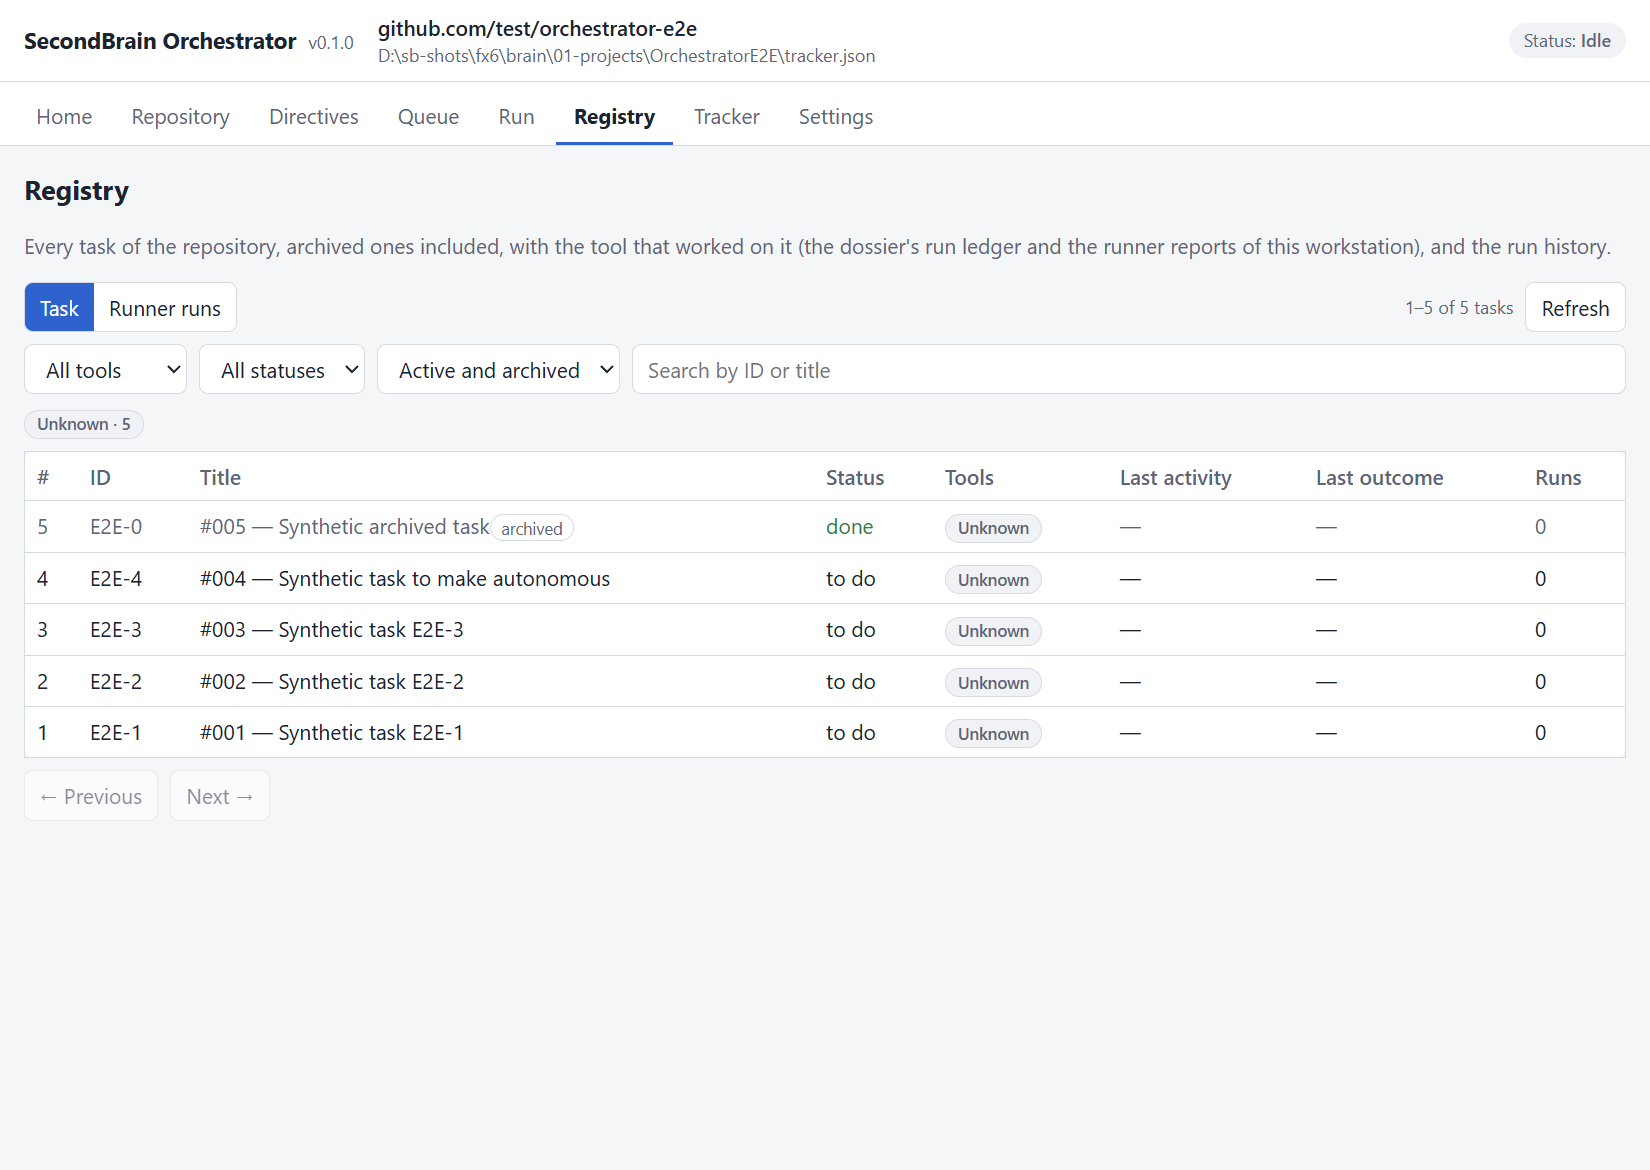
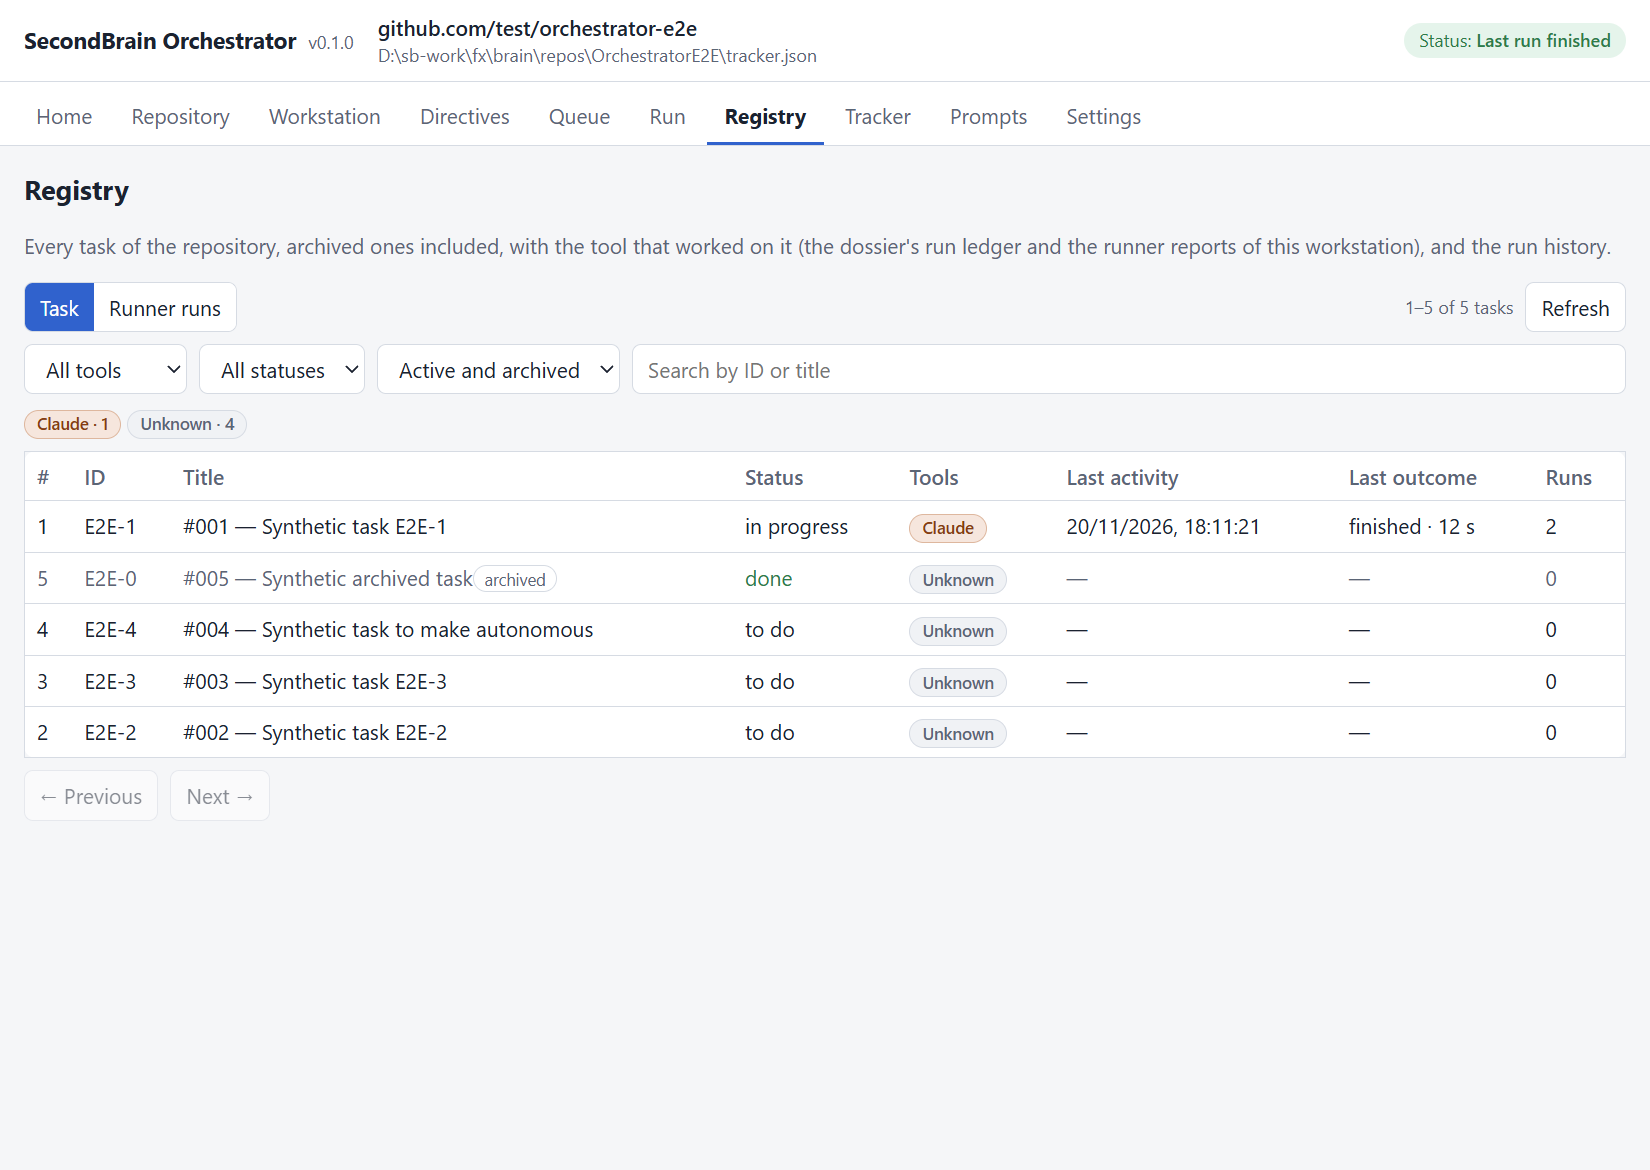
Orchestrator screenshots: English fixture titles, regenerate the five images and refresh their binaryReviews (#686)
Executed by orchestrate-tasks.ps1 (claude).

diff --git a/app/orchestrator/e2e/ui-audit.audit.ts b/app/orchestrator/e2e/ui-audit.audit.ts
@@ -84,6 +84,7 @@ test("1 first run: no repository, no recent entries", async () => {
   fs.mkdirSync(fixture.configDir, { recursive: true });
   fs.writeFileSync(path.join(fixture.configDir, "settings.json"), JSON.stringify({ secondbrainHome: "", pwshPath: "", recentRepos: [] }));
   const app = await launch();
+  await tab(app.page, "repo");
   await shot(app.page, "01-first-run-repository");
   await tab(app.page, "settings");
   await shot(app.page, "01-first-run-settings");

diff --git a/docs/orchestratore.md b/docs/orchestratore.md
@@ -73,17 +73,17 @@ The header always shows the loaded repository, its tracker and the run badge. Th
 7. **Workstation (#577).** Reached from Home (**Open Workstation Setup**). It reads `setup-status.ps1` and lists the setup summary, the IDEs with their MCP state and available scopes, and the optional features with the reason for each. A feature whose enable command is a `client-hooks.ps1 -Install` hook opens **Review**; the others show their command to copy. **Upkeep** offers three closed actions: the workstation check (`secondbrain.ps1 -Check`, read-only), the managed-block sync (preview is `-Check`, Apply runs `-Sync`) and the task launcher (`install-task-launcher.ps1`, preview by default). Every action first shows the exact command line and the command Apply would run. **Preview** runs the script without `-Apply` and changes nothing; **Apply** stays disabled until that preview ran and you ticked the authorization for this exact command, and choosing another action clears both. The window adds no authority: the script applies its own gates (write session, hashes, backups), the same as on the command line. Directive revisions are not applied here: the tab links to Directives, where `approve-revision.ps1 -Preview` and the approval stay.
 
 ![Repository step on first run: an empty checkout path field with Browse and Load buttons and no recent repository](assets/orchestrator-repository.png)
-![Directives step: the dossier target, an empty directives editor, Propose, Import and Preview buttons and the startup budget bar at 25.7 percent](assets/orchestrator-directives.png)
-![Queue step: Claude Code 2.1.0 ready, Codex and Gemini CLI not installed, model, effort and timeout fields and three synthetic ready tasks](assets/orchestrator-queue.png)
+![Directives step: the dossier target, an empty directives editor, Propose, Import and Preview buttons and the startup budget bar at 35.6 percent](assets/orchestrator-directives.png)
+![Queue step: Claude Code 2.1.0 ready, Codex and Gemini CLI not installed, model, effort and timeout fields and two synthetic ready tasks](assets/orchestrator-queue.png)
 ![Registry step: five synthetic tasks with status, tool, last activity and run count](assets/orchestrator-registry.png)
-![Tracker step: the bound project, the Tracker updated date as 2026-11-17 19:04, its Git and GitHub update preference (commit and push on main, proposed default) and the new agent definition form](assets/orchestrator-tracker.png)
+![Tracker step: the bound project, the Tracker updated date as 2026-11-20 18:11, its Git and GitHub update preference (commit and push on main, proposed default) and the new agent definition form](assets/orchestrator-tracker.png)
 ![Waiting decision: the analysis dialog for a task that cannot run alone, asking which README section to add with Installation recommended, Usage and a free-text answer](assets/orchestrator-decision.png)
 ![Run step after a finished fixture run: status, elapsed time, progress, the outcome table and the run folder under the fixture host ID ws-0123456789abcdef](assets/orchestrator-run.png)
 ![Settings step: SecondBrain root and PowerShell 7 executable fields with generic placeholder paths and the light model selectors](assets/orchestrator-settings.png)
 
 8. **Prompts.** Lists the system prompts (read-only), the default prompts (view and duplicate) and your own prompts, which live on this workstation outside Git in `.runtime/user-prompts` and can be deleted. **New prompt** opens a wizard with the RCTFE fields (role, context, task with numbered steps, format) and an optional directive. **Draft** asks the light model (`agents.ps1 -Analyze -Kind prompt-draft`) to fill the fields from a one-line goal; it only fills the wizard and saves nothing. Preview shows the composed prompt and its size against the 3,500-character budget, and Save sends exactly what was previewed.
 
-Screenshots: real release binary (app v0.1.0, SecondBrain 2.17.0, captured 2026-11-16, Queue and Tracker recaptured 2026-11-17) driven by `app/orchestrator/e2e/ui-audit.audit.ts` on the synthetic fixture of `scripts/test-orchestrator-fixture.ps1`; the agent is the fixture's fake Claude Code (reported as 2.1.0) and the task titles are fixture text. The last three (waiting decision, Run, Settings; captured 2026-11-17 by `app/orchestrator/e2e/docs-screenshots.audit.ts`) need care because the run folder contains the workstation ID (`hosts/ws-...`, derived from the machine name and user SID) and Settings holds the workstation's own paths. The app is unchanged and the capture script handles it: before each shot every `ws-<16 hex>` in the page is replaced by the fixture ID `ws-0123456789abcdef` and the capture fails if a real one is left, and the Settings fields are filled with generic placeholder values. The images therefore show those values, not the ones of the machine that took them.
+Screenshots: real release binary (app v0.1.0, SecondBrain 3.3.0; the first five recaptured 2026-11-20 in the neutral work folder `D:\sb-work`) driven by `app/orchestrator/e2e/ui-audit.audit.ts` on the synthetic fixture of `scripts/test-orchestrator-fixture.ps1`; the agent is the fixture's fake Claude Code (reported as 2.1.0) and the task titles are fixture text. The last three (waiting decision, Run, Settings; captured 2026-11-17 by `app/orchestrator/e2e/docs-screenshots.audit.ts`) need care because the run folder contains the workstation ID (`hosts/ws-...`, derived from the machine name and user SID) and Settings holds the workstation's own paths. The app is unchanged and the capture script handles it: before each shot every `ws-<16 hex>` in the page is replaced by the fixture ID `ws-0123456789abcdef` and the capture fails if a real one is left, and the Settings fields are filled with generic placeholder values. The images therefore show those values, not the ones of the machine that took them.
 
 **Closing the window during a run** asks what to do: leave it running and close, stop after the task and close, abort now and close, or cancel. A run left running keeps working; when the app is opened again on that repository it finds the run through `status.json`, reattaches, replays the agent's steps and follows it to the end. The runner refuses a second run on the same repository while the first is alive, from the app or from the command line.
 
